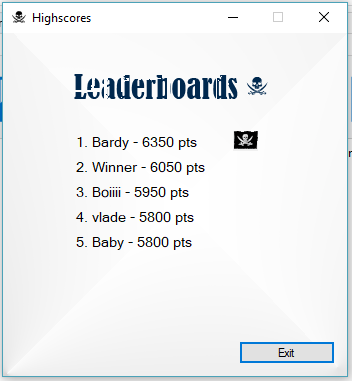
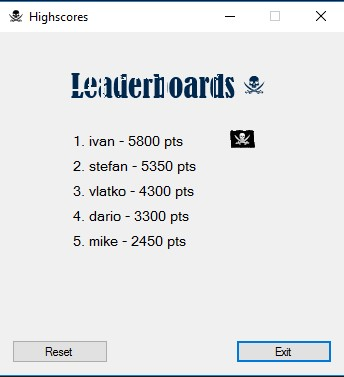
FIxed sound bugs

diff --git a/BattleShip/View/Game.cs b/BattleShip/View/Game.cs
@@ -17,7 +17,6 @@ using System.Reflection;
 
 namespace BattleShip
 {
-    [Serializable]
     partial class Game : Form
     {
         bool GameStarted;
@@ -29,7 +28,7 @@ namespace BattleShip
         ComputerController computer;
         Point startedPosition;
         Point shotPosition;
-       
+
         public static bool MuteClicked { get; set; }
         private bool saved = false;
 
@@ -77,7 +76,9 @@ namespace BattleShip
             btnRandomize.Visible = false;
             btnStart.Text = "Resume";
             dgvPlayer.Enabled = false;
-        }
+            MuteClicked = state.Mute;
+            CheckIcon();
+        }      
 
         public void ShowPlayerView()
         {
@@ -198,6 +199,7 @@ namespace BattleShip
             state.Player = player;
             state.Score = score;
             state.Turn = Turn;
+            state.Mute = MuteClicked;
             ComputerTimer.Stop();
             ShootTimer.Stop();
             DialogResult = DialogResult.Cancel;
@@ -240,20 +242,18 @@ namespace BattleShip
                 ShootTimer.Stop();
 
                 ShootTimer.Enabled = false;
-                //ShowPlayerView();
-                //ShowComputerView();
                 ComputerTimer.Enabled = false;
                 dgvComputer.Enabled = false;
                 ShootTimer.Enabled = false;
-                
+
 
                 if (score > 0)
                 {
                     View.InputScore form = new View.InputScore();
-                    if(form.ShowDialog() == DialogResult.OK)
+                    if (form.ShowDialog() == DialogResult.OK)
                     {
                         saveFile(form.winnerName, score);
-                    }                    
+                    }
                 }
 
                 ComputerTimer.Dispose();
@@ -266,8 +266,6 @@ namespace BattleShip
                 ComputerTimer.Interval = 999999999;
                 ShootTimer.Interval = 999999999;
                 ShootTimer.Stop();
-                // ShowPlayerView();
-                //ShowComputerView();
                 dgvComputer.Enabled = false;
                 ShootTimer.Dispose();
                 ComputerTimer.Dispose();
@@ -337,7 +335,7 @@ namespace BattleShip
             {
                 dgvComputer.Rows[e.RowIndex].Cells[e.ColumnIndex].Style.BackColor = Color.DimGray;
                 startedPosition = position;
-                
+
             }
             else
             {
@@ -348,7 +346,6 @@ namespace BattleShip
             {
                 dgvComputer.Rows[0].Cells[0].Style.BackColor = Color.Transparent;
             }
-
 
         }
 
@@ -369,7 +366,6 @@ namespace BattleShip
         {
             if (!startedPosition.IsEmpty && dgvComputer.Rows[startedPosition.X].Cells[startedPosition.Y].Style.BackColor == Color.DimGray)
             {
-                //dgvComputer[0, 0].Style.BackColor = Color.Transparent;
                 dgvComputer.Rows[startedPosition.X].Cells[startedPosition.Y].Style.BackColor = Color.Transparent;
             }
         }
@@ -377,16 +373,15 @@ namespace BattleShip
         private void saveFile(String name, int Score)
         {
             using (System.IO.StreamWriter file =
-         new System.IO.StreamWriter(Environment.GetFolderPath(Environment.SpecialFolder.MyDocuments) + "\\highscores.csv", true))
+                new System.IO.StreamWriter(Environment.GetFolderPath(Environment.SpecialFolder.MyDocuments) + "\\highscores.csv", true))
             {
                 file.WriteLine(name + ";" + Score.ToString());
             }
-            //System.IO.File.WriteAllText(Application.StartupPath + "\\highscores.txt", name + ";" + Score.ToString());
         }
 
         private void Game_FormClosing(object sender, FormClosingEventArgs e)
         {
-            if(!saved && !isFinished)
+            if (!saved && !isFinished)
             {
                 if (MessageBox.Show("Do you want to leave the game?", "Leave Game",
                 MessageBoxButtons.OKCancel, MessageBoxIcon.Question) == DialogResult.Cancel)
@@ -400,6 +395,7 @@ namespace BattleShip
             state.Player = player;
             state.Score = score;
             state.Turn = Turn;
+            state.Mute = MuteClicked;
             ComputerTimer.Stop();
             ShootTimer.Stop();
 
@@ -432,11 +428,6 @@ namespace BattleShip
             Cursor.Current = Cursors.Hand;
         }
 
-        private void label4_MouseHover(object sender, EventArgs e)
-        {
-            
-        }
-
         private void btnNewGame_Click(object sender, EventArgs e)
         {
             if (MessageBox.Show("Do you want start new game?", "Start New Game",
@@ -444,6 +435,16 @@ namespace BattleShip
             {
                 DialogResult = DialogResult.Abort;
                 saved = true;
+            }
+        }
+
+        public void CheckIcon()
+        {
+            if (MuteClicked)
+            {
+                label4.Hide();
+                label5.Show();
+                label4.BringToFront();
             }
         }
 

diff --git a/BattleShip/View/Highscores.cs b/BattleShip/View/Highscores.cs
@@ -61,14 +61,10 @@ namespace BattleShip.View
         public void readFile()
         {
             var fs = File.OpenRead(Environment.GetFolderPath(Environment.SpecialFolder.MyDocuments)+"\\highscores.csv");
-          //  MessageBox.Show("Reading!");
             var reader = new StreamReader(fs);
             var line="";
             while (( line=reader.ReadLine())!=null)
-            {
-
-
-                //  MessageBox.Show(line);
+            { 
                 if (line == "")
                 {
                     break;
@@ -76,14 +72,8 @@ namespace BattleShip.View
                 var values = line.Split(';');
                 int p;
                 int.TryParse(values[1], out p);
-                //MessageBox.Show(values[0]);
                 Score s = new Score(values[0], p);
-               // Label l = new Label();
                 hiScores.Add(s);
-                //l.Text = (I+1)+"."+s.ToString();
-                //lblList.Add(l);
-
-               // I++;
             }
            
             Sort();
@@ -110,46 +100,40 @@ namespace BattleShip.View
             else{
                 z = hiScores.Count;
             }
-           // MessageBox.Show(hiScores.Count.ToString());
+
             if(hiScores.Count > 0)
-            for(int i = 0; i < z; i++) 
             {
-                Label l = new Label();
+                btnReset.Enabled = true;
+                for (int i = 0; i < z; i++)
+                {
+                    Label l = new Label();
                     if (i == 0)
                     {
                         PictureBox pb = new PictureBox()
                         {
                             Size = new Size(25, 20),
-                            Location = new Point(l.Location.X + 2*l.Width + 30, 98),
+                            Location = new Point(l.Location.X + 2 * l.Width + 30, 98),
                             Image = Properties.Resources._5929ca2696f6a272985558
                         };
                         this.Controls.Add(pb);
                     }
-                    
+
                     l.Text = (i + 1) + ". " + hiScores[i].ToString();
                     l.BackColor = Color.Transparent;
-                                   
-                        
+
+
                     lblList.Add(l);
+                }
             }
+            
             else
             {
                 Label l = new Label();
                 l.Text = "No Highscores!";
                 l.BackColor = Color.Transparent;
+                btnReset.Enabled = false;
                 lblList.Add(l);
             }
-        }
-
-        private void label1_Click(object sender, EventArgs e)
-        {
-           // readFile();
-        }
-
-        private void Highscores_Shown(object sender, EventArgs e)
-        {
-           // readFile();
-           
         }
 
         private void btnExit_Click(object sender, EventArgs e)
@@ -158,5 +142,39 @@ namespace BattleShip.View
 
         }
 
+        private void removeControls()
+        {
+            foreach(Label l in lblList)
+            {
+                Controls.Remove(l);
+            }
+            foreach(Control control in Controls)
+            {
+                if(control is PictureBox)
+                {
+                    Controls.Remove(control);
+                }
+            }
+        }
+
+        private void btnReset_Click(object sender, EventArgs e)
+        {
+            if(MessageBox.Show("Do you want to reset scores? You can't undo this", 
+                "Reset Score", MessageBoxButtons.OKCancel, MessageBoxIcon.Warning) == DialogResult.OK)
+            {
+                string path = Environment.GetFolderPath(Environment.SpecialFolder.MyDocuments) + "\\highscores.csv";
+                using (File.Create(path)) { }
+                Label l = new Label();
+                l.Text = "No Highscores!";
+                l.BackColor = Color.Transparent;
+
+                removeControls();
+                l.Location = new Point { X = 70, Y = 100 };
+                l.Font = new Font("Comic Sans", 10, FontStyle.Regular);
+                l.Width = 150;
+                Controls.Add(l);
+                btnReset.Enabled = false;
+            }            
+        }
     }
 }

diff --git a/BattleShip/View/Highscores.Designer.cs b/BattleShip/View/Highscores.Designer.cs
@@ -31,6 +31,7 @@
             System.ComponentModel.ComponentResourceManager resources = new System.ComponentModel.ComponentResourceManager(typeof(Highscores));
             this.btnExit = new System.Windows.Forms.Button();
             this.label1 = new System.Windows.Forms.Label();
+            this.btnReset = new System.Windows.Forms.Button();
             this.SuspendLayout();
             // 
             // btnExit
@@ -54,12 +55,22 @@
             this.label1.Text = "                                                                         ";
             this.label1.TextAlign = System.Drawing.ContentAlignment.MiddleCenter;
             // 
+            // btnReset
+            // 
+            this.btnReset.Location = new System.Drawing.Point(12, 308);
+            this.btnReset.Name = "btnReset";
+            this.btnReset.Size = new System.Drawing.Size(96, 23);
+            this.btnReset.TabIndex = 2;
+            this.btnReset.Text = "Reset";
+            this.btnReset.UseVisualStyleBackColor = true;
+            this.btnReset.Click += new System.EventHandler(this.btnReset_Click);
+            // 
             // Highscores
             // 
             this.AutoScaleDimensions = new System.Drawing.SizeF(6F, 13F);
             this.AutoScaleMode = System.Windows.Forms.AutoScaleMode.Font;
-
             this.ClientSize = new System.Drawing.Size(344, 343);
+            this.Controls.Add(this.btnReset);
             this.Controls.Add(this.label1);
             this.Controls.Add(this.btnExit);
             this.FormBorderStyle = System.Windows.Forms.FormBorderStyle.FixedSingle;
@@ -69,7 +80,6 @@
             this.StartPosition = System.Windows.Forms.FormStartPosition.CenterScreen;
             this.Text = "Highscores";
             this.Load += new System.EventHandler(this.Highscores_Load);
-            this.Shown += new System.EventHandler(this.Highscores_Shown);
             this.ResumeLayout(false);
 
         }
@@ -78,5 +88,6 @@
 
         private System.Windows.Forms.Button btnExit;
         private System.Windows.Forms.Label label1;
+        private System.Windows.Forms.Button btnReset;
     }
 }

diff --git a/BattleShip/View/Menu.cs b/BattleShip/View/Menu.cs
@@ -73,7 +73,8 @@ namespace BattleShip
                     btnContinue.Enabled = false;
                 }
                 this.Show();
-                sound.PlayLooping();
+                if(!MuteClicked)
+                    sound.PlayLooping();
             }
             if(result == DialogResult.Abort)
             {
@@ -93,7 +94,8 @@ namespace BattleShip
             this.Hide();
             if (controls.ShowDialog() == DialogResult.Cancel) {
                 this.Show();
-                sound.Play();
+                if (!MuteClicked)
+                    sound.PlayLooping();
             }
             
         }
@@ -204,7 +206,8 @@ namespace BattleShip
             if (Highscores.ShowDialog() == DialogResult.Cancel)
             {
                 this.Show();
-                sound.Play();
+                if (!MuteClicked)
+                    sound.PlayLooping();
             }
         }
 
@@ -236,7 +239,8 @@ namespace BattleShip
                     btnContinue.Enabled = false;
                 }
                 this.Show();
-                sound.PlayLooping();
+                if (!MuteClicked)
+                    sound.PlayLooping();
             }
             if(result == DialogResult.Abort)
             {

diff --git a/BattleShip/Model/State.cs b/BattleShip/Model/State.cs
@@ -14,5 +14,6 @@ namespace BattleShip.Model
         public ComputerController Computer { get; set; }
         public int Score { get; set; }
         public bool Turn { get; set; }
+        public bool Mute { get; set; }
     }
 }
